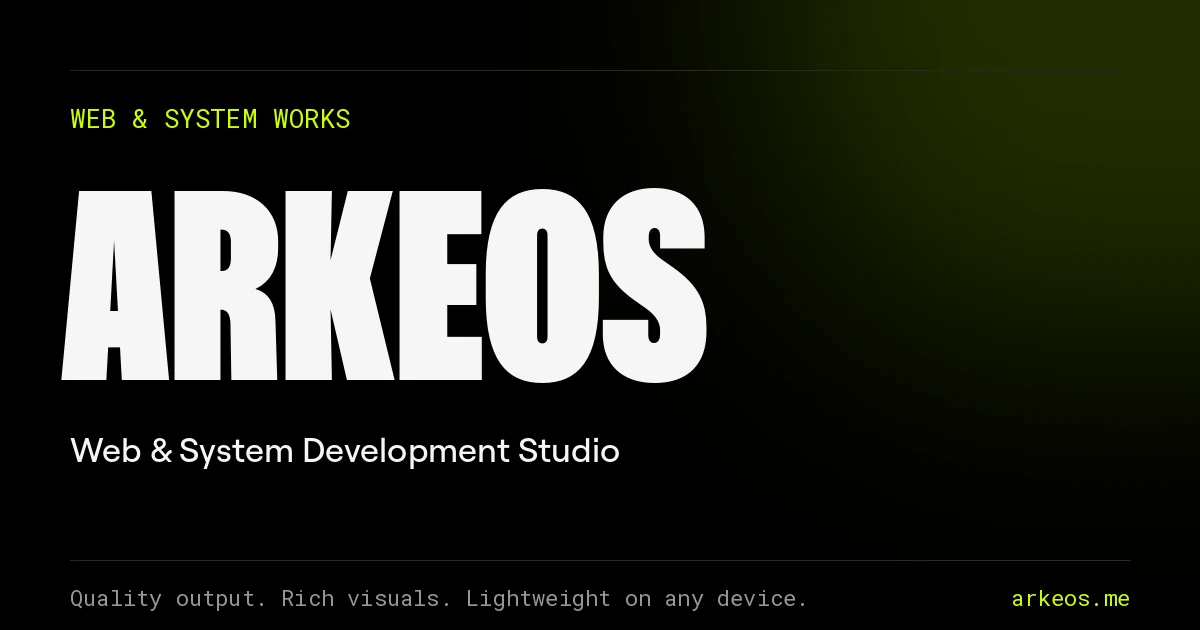
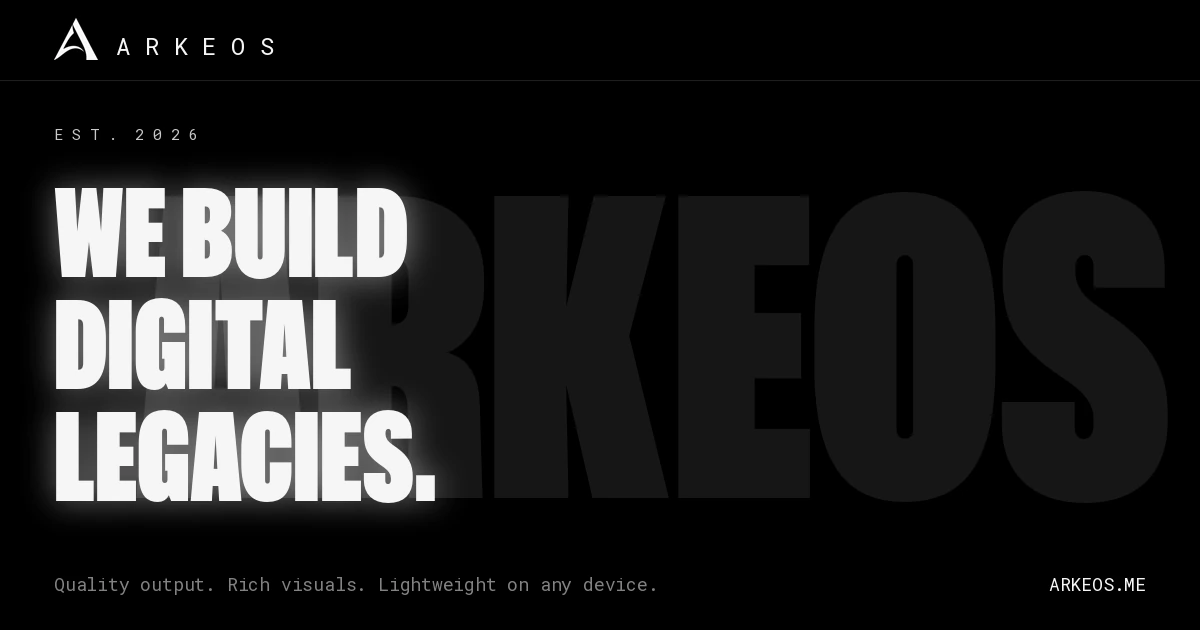
monochrome share image and white default accent

diff --git a/components/admin/AdminApp.tsx b/components/admin/AdminApp.tsx
@@ -358,7 +358,7 @@ function Projects({ toast, ask }: PanelProps) {
   const [list, setList] = useState<Project[] | null>(null);
   const [error, setError] = useState("");
   const [editing, setEditing] = useState<{ id: string | null; hadUrl: boolean } | null>(null);
-  const [f, setF] = useState({ title: "", description: "", tags: "", url: "", color: "#C8FF00", visible: true, featured: false, media: "" });
+  const [f, setF] = useState({ title: "", description: "", tags: "", url: "", color: "#FFFFFF", visible: true, featured: false, media: "" });
   const [staged, setStaged] = useState<File | null>(null);
   const [saving, setSaving] = useState(false);
   const [posters_busy, setPostersBusy] = useState(false);
@@ -376,7 +376,7 @@ function Projects({ toast, ask }: PanelProps) {
     setStaged(null);
     const p = idx === null ? null : list![idx];
     setEditing({ id: p?.id ?? null, hadUrl: !!p?.url });
-    setF({ title: p?.title ?? "", description: p?.description ?? "", tags: (p?.tags ?? []).join(", "), url: p?.url ?? "", color: p?.color || "#C8FF00", visible: p ? p.visible !== false : true, featured: p?.featured === true, media: p?.media ?? "" });
+    setF({ title: p?.title ?? "", description: p?.description ?? "", tags: (p?.tags ?? []).join(", "), url: p?.url ?? "", color: p?.color || "#FFFFFF", visible: p ? p.visible !== false : true, featured: p?.featured === true, media: p?.media ?? "" });
   };
 
   const save = async () => {
@@ -713,7 +713,7 @@ const SOCIAL_FIELD_IDS: Record<string, string> = {
 const blank_socials = () => Object.fromEntries(SOCIAL_LINKS.map(({ key }) => [key, ""])) as Record<(typeof SOCIAL_LINKS)[number]["key"], string>;
 
 function Settings({ toast }: Pick<PanelProps, "toast">) {
-  const [accent, setAccent] = useState("#C8FF00");
+  const [accent, setAccent] = useState("#FFFFFF");
   const [socials, setSocials] = useState(blank_socials);
   const [video, setVideo] = useState("");
   const [error, setError] = useState("");
@@ -722,7 +722,7 @@ function Settings({ toast }: Pick<PanelProps, "toast">) {
   useEffect(() => {
     db.dbLoadSiteSettings()
       .then((r: SiteSettings) => {
-        setAccent(r.accent_color || "#C8FF00");
+        setAccent(r.accent_color || "#FFFFFF");
         setSocials(Object.fromEntries(SOCIAL_LINKS.map(({ key }) => [key, r[key] ?? ""])) as typeof socials);
         setVideo(r.hero_video ?? "");
       })

diff --git a/components/admin/shared.tsx b/components/admin/shared.tsx
@@ -319,7 +319,7 @@ export function MediaField({
 }
 
 const HEX_FULL = /^#[0-9a-f]{6}$/i;
-const COLOR_PRESETS = ["#C8FF00", "#FF6B6B", "#FFB800", "#00D1FF", "#7C5CFF", "#F5F5F5"];
+const COLOR_PRESETS = ["#FFFFFF", "#C8FF00", "#FF6B6B", "#FFB800", "#00D1FF", "#7C5CFF", "#A3A3A3"];
 
 const clamp01 = (n: number) => Math.min(1, Math.max(0, n));
 
@@ -363,7 +363,7 @@ export function ColorField({
 }: {
   id: string; label: string; value: string; onChange: (v: string) => void; wide?: boolean;
 }) {
-  const safe = HEX_FULL.test(value) ? value.toLowerCase() : "#c8ff00";
+  const safe = HEX_FULL.test(value) ? value.toLowerCase() : "#ffffff";
   const [open, setOpen] = useState(false);
   const [hsv, setHsv] = useState<Hsv>(() => hex_to_hsv(safe));
   const [draft, setDraft] = useState(safe);

diff --git a/styles/hero.css b/styles/hero.css
@@ -132,7 +132,7 @@
 
 .hero-h1 em, .hero-studio em { animation:hero-glow-drift 9s ease-in-out infinite; }
 .hero-word {
-  --glow: 0 0 5px rgba(255,255,255,0.2), var(--gx) calc(var(--gx) * -0.6) 22px rgba(200,255,0,0.16), calc(var(--gx) * -1.3) var(--gx) 38px rgba(255,255,255,0.1);
+  --glow: 0 0 5px rgba(255,255,255,0.2), var(--gx) calc(var(--gx) * -0.6) 22px rgba(255,255,255,0.16), calc(var(--gx) * -1.3) var(--gx) 38px rgba(255,255,255,0.1);
   display:block; text-shadow:var(--glow);
   animation:hero-illuminate 12s linear infinite, hero-twist 8s linear infinite;
 }

diff --git a/app/globals.css b/app/globals.css
@@ -33,7 +33,7 @@
 :root {
   --color-bg:      #000000;
   --color-text:    #F5F5F5;
-  --color-accent:  #C8FF00;
+  --color-accent:  #FFFFFF;
   --color-muted:   rgba(245,245,245,0.38);
   --color-border:  rgba(245,245,245,0.07);
   --color-surface: rgba(245,245,245,0.03);

diff --git a/app/admin/admin.css b/app/admin/admin.css
@@ -2,7 +2,7 @@
 :root {
   --color-bg:      #000000;
   --color-text:    #F5F5F5;
-  --color-accent:  #C8FF00;
+  --color-accent:  #FFFFFF;
   --color-muted:   rgba(245,245,245,0.38);
   --color-border:  rgba(245,245,245,0.07);
   --color-surface: rgba(245,245,245,0.03);
